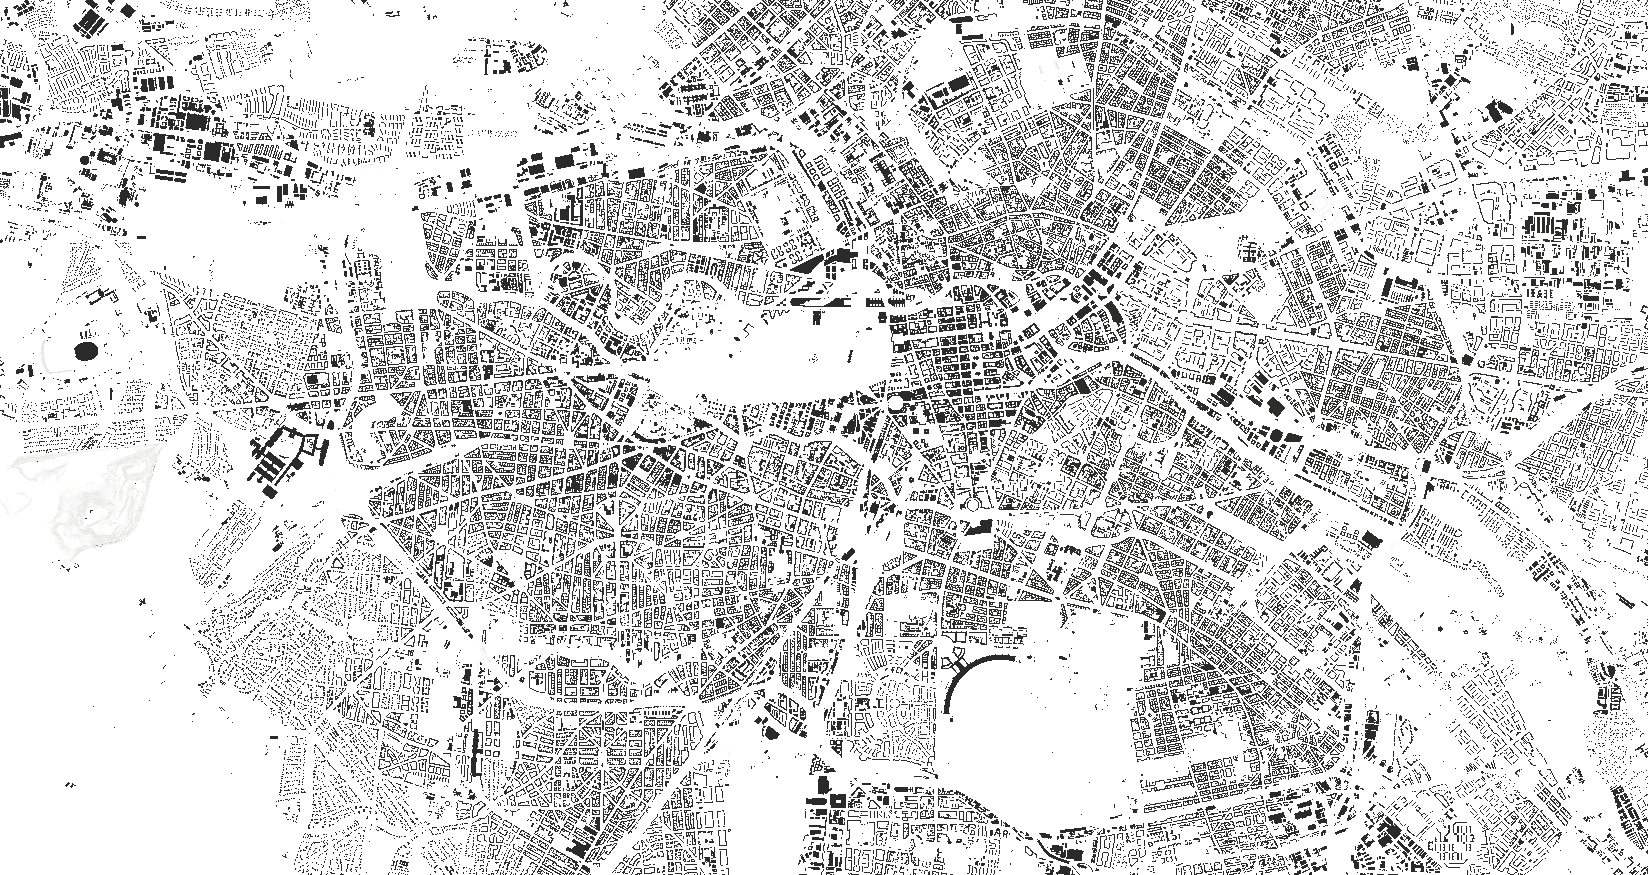
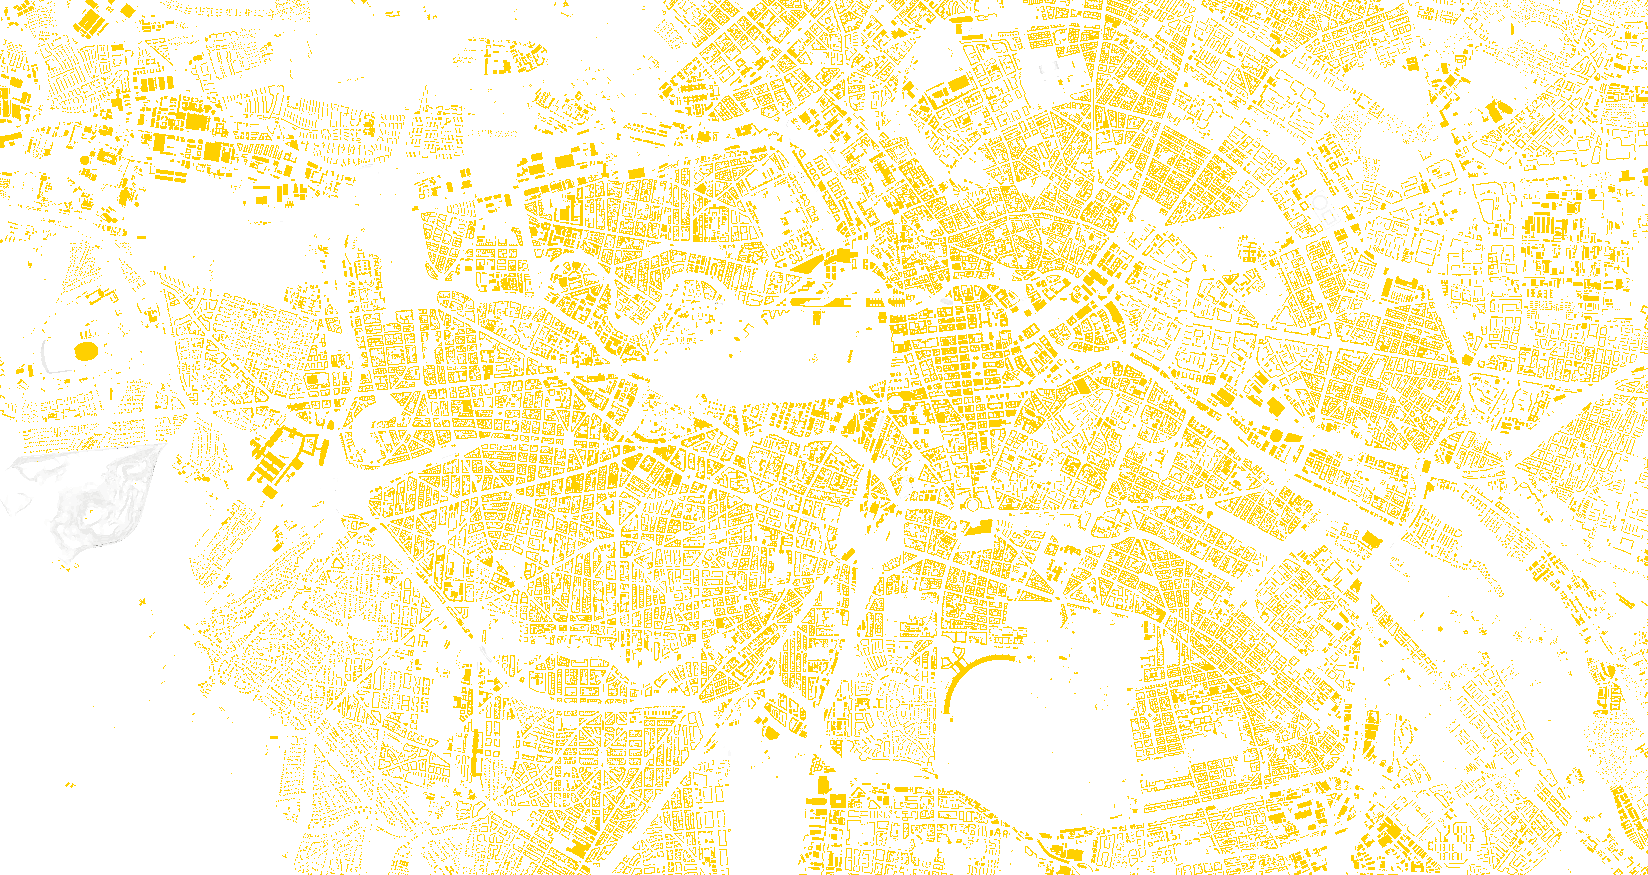
update social shadow analysis

diff --git a/shadow_analysis.html b/shadow_analysis.html
@@ -22,119 +22,73 @@
 <h1 class="project-title">social shadow analysis</h1>
 <section class="shadows-project-info">
   <img src="assets/berlinmap.png" class="berlin_map_img">
-  <h1 class="project-title">intro</h1>
   <p>
-    Access to sunlight in urban environments is critical for the well-being and health of residents. This research project, developed using Unity, investigates the relationship between social inequality and access to sunlight in urban areas, using Berlin as a case study.
+    Sunlight is one of the most important factors for well-being and health, especially in urban spaces. This Unity based simulative research project explores the connection between social status and the accessibility of sunlight in cities, using Berlin as an example.  
   </p>
   <p>
-    By simulating solar exposure with computer-based light simulations, the project examines which districts receive the least sunlight on their buildings and explores how these results correlate with socio-economic indicators.
+    Using computational lighting simulations, the project looks into which neighborhoods receive the lowest amount of sunlight on their buildings and analyzes how these results are linked to socio-economic indicators.
   </p>
+  <p>
+    <strong>context</strong>
+  </p>
+  <p>
+    Sunshine accessibility is crucial in shaping the urban climate and public health. Limited exposure to natural light, which is often caused by shading from buildings, can significantly impact local climatic conditions and human health.
+  </p>
+  <p>
+    Research shows that architectural shadows can have an influence on temperature, for instance, which can result in increased energy consumption and discomfort for local residents. For such reasons, a study by Rehan et al. (2015) shows the importance of applying shadow analysis in urban planning.
+  </p>
+  <p>
+    In addition, the lack of exposure to sunlight has been linked to a range of health problems, including vitamin D deficiency and autoimmune diseases. Alfredsson et al. (2020) shows how insufficient access to sunlight has become a public health issue. These findings highlight the need for urban design to consider sufficient access to sunlight for its residents.
+  </p>
+  <p>
+    This project aims to address these challenges by using Unity to create a 3D visualization of the layout of Berlin, allowing the calculation of how sunlight interacts with urban structures. Furthermore, by providing a web tool to simulate solar exposure on user-defined areas, the project attempts to bring attention to the role of sunlight in the well being of the city
+  </p>
+
   <video class="scanVideo" src="assets/solarscan01.mp4" autoplay loop muted playsinline></video>
-  <h1 class="project-title">research questions</h1>
-  <ul>
-    <li>Which districts in Berlin experience the lowest solar exposure on buildings, and how do these data correlate with social factors such as socio-economic status and population?</li>
-    <li>Is there a significant correlation between socio-economic status and solar potential ( sunlit building area per person)?</li>
-  </ul>
-  <h1 class="project-title">objectives</h1>
-  <ul>
-    <li>
-      <strong>Simulation and Analysis:</strong> Develop a Unity-based simulation model using Monte Carlo sampling and raycasting techniques to quantify shadowing and solar exposure on buildings in various planning areas of Berlin.
-    </li>
-    <li>
-      <strong>Social Dimension:</strong> Investigate how socio-economic indicators (status index, population) correlate with solar exposure per capita.
-    </li>
-    <li>
-      <strong>Recommendations:</strong> Derive urban planning improvements and policy recommendations to enhance sunlight access in underexposed districts.
-    </li>
-    <li>
-      <strong>Data Integration:</strong> Merge simulation results with socio-economic data to provide an interdisciplinary perspective on urban solar access.
-    </li>
-  </ul>
-  <h1 class="project-title">context and background</h1>
+
   <p>
-    Urban solar access has been a topic of significant interest due to its impact on energy efficiency, urban microclimate, and public health. Studies show that building shadows can dramatically alter local climate conditions. Historical examples, like the observations from Chicago in 1923, highlight the adverse effects of inadequate sunlight on human well-being (Rehan & Islam 2015).
+    <strong>simulation approach</strong>
   </p>
   <p>
-    This project utilizes the flexibility of Unity to create customizable simulations for analyzing solar exposure in a cost-effective manner.
+    To simulate the sunlight exposure of urban buildings in Berlin, a 3D city model was created using open data made available by the Senatsverwaltung für Stadtentwicklung, Bauen und Wohnen Berlin.
+Socio-economic statistics, including neighborhood status indices and population data, were gathered from the same institution. These neighbourhoods were computed as 2D polygons and spatially mapped onto the 3D building model.
   </p>
-  <h1 class="project-title">methodology</h1>
-  <h3>Data and Tools</h3>
-  <ul>
-    <li><strong>Data Sources:</strong> 3D map of Berlin, planning area boundaries, and socio-economic indicators (status index, population).</li>
-    <li><strong>Tools:</strong>
-      <ul>
-        <li><strong>Unity (C#):</strong> For simulating solar exposure using Monte Carlo sampling, raycasting, and spatial analysis.</li>
-        <li><strong>Python:</strong> For statistical analysis and visualization of simulation results.</li>
-      </ul>
-    </li>
-  </ul>
+  <p>
+    For each polygon representing a neighbourhood, corresponding building surfaces were identified and calculated for solar exposure. A custom raycasting algorithm was used to simulate if sunlight could reach each surface at a given time. Monte Carlo sampling was used to generate multiple random points on each surface to increase the precision of the simulation. From each point, a ray was cast towards a virtual sun to check for obstructions caused by surrounding buildings.
+  </p>
+  <p>
+    For each polygon representing a neighbourhood, corresponding building surfaces were identified and calculated for solar exposure. A custom raycasting algorithm was used to simulate if sunlight could reach each surface at a given time. Monte Carlo sampling was used to generate multiple random points on each surface to increase the precision of the simulation. From each point, a ray was cast towards a virtual sun to check for obstructions caused by surrounding buildings.
+  </p>
+  <p>
+    After executing this process for all buildings in a neighborhood, the percentage of sunlit surfaces was taken for each area, providing a basis for comparing access to sunlight between different parts of the city.
+  </p>
+  <p><strong>statistical analysis</strong></p>
+  <p>
+    The simulation results were analyzed in relation to socio-economic data. Specifically, Pearson and Spearman correlation coefficients were calculated to identify a relationship between neighborhood status and solar exposure (absolute and per capita) and population size. The significance of the correlations was tested using p-values.
+  </p>
+  <p>
+    This analysis helps to show how access to natural light may be related to patterns of inequality or urban disadvantage.
+  </p>
+  <p><strong>results</strong></p>
+  <p>
+    The analysis shows a moderate but statistically significant relationship between sunlight availability and socio-economic status. A Spearman correlation of -0.327 (p < 0.0001) suggests that areas with a higher social status index (lower social status) tend to receive less sunlight per person. Although this negative correlation is not strong, it points to a possible trend.
+  </p>
+  <p>
+    These results demonstrate how urban architecture and social structure can intersect in often unexpected ways. Poorer planning areas may prioritize architectural density and greater building height, factors that could reduce solar access. But, given the moderate strength of the correlation, it's likely that other, not yet identified variables, also influence access to sunlight for residents.
+  </p>
+  <p>
+    Furthermore, this project is based on multiple simplifying assumptions. For example, the raycasting using Monte Carlo sampling, involves geometric and computational approximations. The socio-economic data and the 3D model may also contain inaccuracies or lack resolution. Also, the simulation only represents static conditions, like solar access, which was only calculated for a few points in time, rather than covering a whole year, which would have taken far too long.
+  </p>
+  <p>
+    To increase the scope and accuracy of the project, future work could extend the simulation to cover a full year with increased computational power. Improved 3D data, especially access to detailed window information, would make the simulation more accurate by better capturing actual indoor light exposure. By including additional variables, such as building height or orientation, in the simulation, specific factors behind the found correlations could be identified. In addition, looking at other indicators, such as rental prices or access to public space, could give a better understanding of how social factors are related to solar access. 
+  </p>
 
-  <h3>Simulation Approach</h3>
-  <ul>
-    <li>
-      <strong>Planning Area Assignment:</strong> Existing planning area objects (meshes) are extracted as 2D polygons. Areas lying outside predefined city boundaries are flagged.
-    </li>
-    <li>
-      <strong>Building Association:</strong> Parent objects containing building meshes (with the "Buildings" material) are recursively searched. Buildings are assigned to planning areas based on a representative point (e.g., bounding box center).
-    </li>
-    <li>
-      <strong>Shadow and Solar Exposure Simulation:</strong> Monte Carlo sampling and raycasting are used to compute the proportion of a building’s surface that receives direct sunlight. Only surfaces above the planning area mesh (to avoid ground-level interference) are considered.
-    </li>
-    <li>
-      <strong>Data Aggregation:</strong> Simulation results are aggregated for each planning area. For each area, key metrics such as solar exposure percentage, total building area, and building count are saved in a single CSV file.
-    </li>
-  </ul>
-
-  <h3>Statistical Analysis</h3>
-  <ul>
-    <li>Calculation of Pearson and Spearman correlations between socio-economic indicators (e.g., status index, population) and solar exposure metrics (absolute and per capita).</li>
-    <li>Significance testing using p-values (e.g., via <code>scipy.stats</code> in Python).</li>
-    <li>Visualizations such as scatterplots with regression lines to illustrate trends.</li>
-  </ul>
-
-  <h1 class="project-title">results</h1>
-
-  <ul>
-    <li>
-      <strong>Simulation Output:</strong> For each planning area, a CSV file row is generated containing planning area name, date, time, solar exposure percentage, building count, and total building area.
-    </li>
-    <li>
-      <strong>Statistical Findings:</strong> Initial analyses reveal weak to moderate correlations between social indicators and solar exposure. For instance, a Spearman correlation of -0.327 (p &lt; 0.0001) indicates a statistically significant negative relationship between status index and solar exposure per person.
-    </li>
-    <li>
-      <strong>Visualizations:</strong> Scatterplots with regression lines, time series plots, and distribution charts provide insights into data trends and outliers.
-    </li>
-  </ul>
 <img src="assets/correl.png" class="correl_img">
-  <h1 class="project-title">discussion and interpretation</h1>
-  <ul>
-    <li>
-      <strong>Interpretation:</strong> The findings suggest that planning areas with higher socio-economic status tend to have slightly lower solar exposure per person, potentially due to denser or more complex building structures. However, the relationships remain moderate, indicating that other factors (e.g., building height, urban density) also play a role.
-    </li>
-    <li>
-      <strong>Limitations:</strong> Methodological assumptions (raycasting and Monte Carlo sampling simplifications), data uncertainties (socio-economic and geometric data), and the static nature of the simulation (ignoring temporal dynamics) may limit the accuracy of results.
-    </li>
-    <li>
-      <strong>Outlook:</strong> Future work could incorporate multivariate analyses, non-linear models, and real-world sensor data to better understand the interplay between urban design and solar access. Interactive visualizations could also enhance communication of the results.
-    </li>
-  </ul>
-
-  <h1 class="project-title">documentation</h1>
-  <ul>
-    <li><strong>Source Code:</strong> All Unity scripts and Python analysis code are provided in the appendix, complete with detailed comments and explanations.</li>
-    <li><strong>Visual Materials:</strong> Screenshots, diagrams, and interactive visualizations illustrate the simulation process and analysis results.</li>
-    <li><strong>References:</strong> A bibliography of key literature (e.g., Duffie & Beckman, 2013; Emmanuel, 2005; Oke, 1982) supports the theoretical and methodological framework.</li>
-  </ul>
-
-  <h1 class="project-title">conclusion</h1>
-  <p>
-    "Shadow Analysis Through the Social Eye" combines computational light simulation with socio-economic and urban design analysis to explore the relationship between sunlight access and social inequality in Berlin. By integrating Unity-based simulations with Python-powered statistical analyses, the project demonstrates that planning areas with higher socio-economic status tend to have slightly lower solar exposure per person. Although the correlations are moderate, these insights provide valuable foundations for more equitable and sustainable urban planning.
-  </p>
-
 
 </section>
 <div class="unity-container">
   <iframe frameborder="0" src="https://itch.io/embed-upload/13463654?color=ffd000" allowfullscreen="" width="1280" height="740"><a href="https://julie1000.itch.io/social-shadow-analysis">Play social shadow analysis on itch.io</a></iframe>        
+  
   <footer>
           <p>please excuse any bugs ^^</p>
       </footer>

diff --git a/style.css b/style.css
@@ -91,8 +91,8 @@ footer {
 .project-title {
     text-align: center;
     padding-top: 64px;
-    font-size: 24px;
-    font-weight: 840;
+    font-size: 16px;
+    font-weight: 600;
 }
 
 .project-info {
@@ -129,8 +129,7 @@ footer {
     padding: 40px;
     padding-left: 35vh;
     padding-right: 35vh;
-    font-size: 18px;
-    font-weight: 800;
+    font-size: 16px;
     text-align: justify;
     flex-grow: 1;
 }
@@ -138,8 +137,8 @@ footer {
 .shadows-project-info strong {
     
 
-    font-size: 18px;
-    font-weight: 800;
+    font-size: 16px;
+    font-weight: 600;
     text-align: justify;
 }
 
@@ -160,12 +159,7 @@ footer {
     text-decoration: underline;
 }
 
-.moving-gif {
-    position: absolute;
-    top: 50%;
-    left: -200px; /* Startet links außerhalb des Bildschirms */
-    width: 100px; /* Größe anpassen */
-}
+
 
 
 

diff --git a/p5js_new.html b/p5js_new.html
@@ -260,7 +260,7 @@
       p.scale(-1.3, 1.3);
       for (let i = 0; i < normalizedFaceLandmarks.length; i++) {
         let asciiChar = String.fromCharCode(35 + i % 10);
-        p.fill(0);
+        p.fill(255, 208, 0);
         p.text(asciiChar, normalizedFaceLandmarks[i].x, normalizedFaceLandmarks[i].y);
       }
       p.pop();
